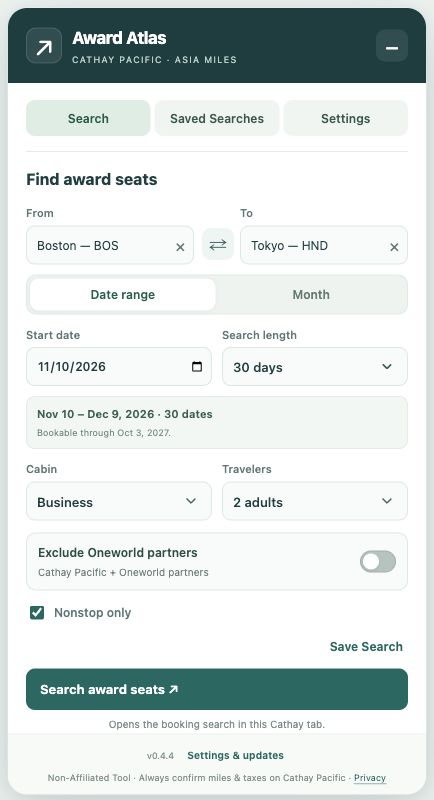
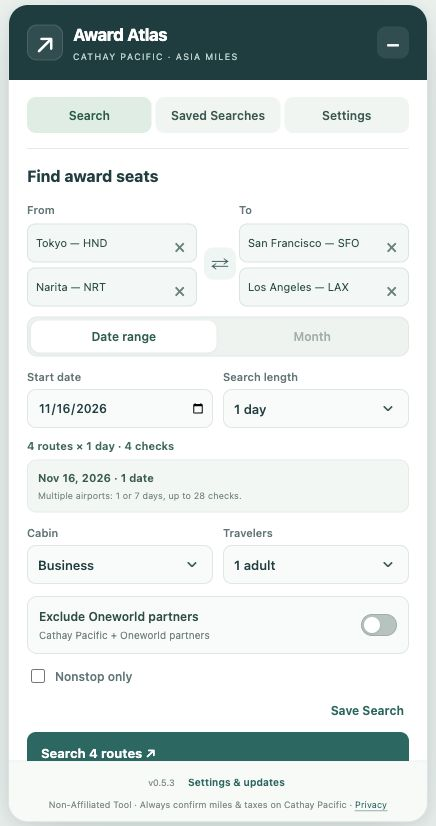
Publish Award Atlas v0.5.3 downloads and multi-airport search guide

diff --git a/index.html b/index.html
@@ -3,7 +3,7 @@
 <head>
   <meta charset="utf-8">
   <meta name="viewport" content="width=device-width, initial-scale=1">
-  <meta name="description" content="A free Chrome extension for searching Cathay Pacific award seats. Explore 7, 14, or 30 days, or a calendar month, in a small panel on Cathay’s website.">
+  <meta name="description" content="A free Chrome extension for searching Cathay Pacific award seats. Explore 1, 7, 14, or 30 days, or a calendar month, in a small panel on Cathay’s website.">
   <meta name="theme-color" content="#123e40">
   <title>Award Atlas — Find your next award flight</title>
   <link rel="icon" href="assets/mark.svg" type="image/svg+xml">
@@ -24,7 +24,7 @@
       <div class="hero-copy">
         <p class="eyebrow"><span class="rule"></span> YOUR NEXT TRIP STARTS WITH A DATE</p>
         <h1 id="hero-title">Your points.<br>More possibilities.</h1>
-        <p class="intro">Find Cathay Pacific and Oneworld partner award flights across a range of dates, all from a small panel on Cathay’s website.</p>
+        <p class="intro">Find Cathay Pacific and Oneworld partner award flights across dates and nearby airports, all from a small panel on Cathay’s website.</p>
         <div class="hero-actions">
           <a class="button" href="https://github.com/somomentous/award-atlas/releases/latest/download/Award-Atlas.zip">
             <svg aria-hidden="true" width="20" height="20" viewBox="0 0 24 24" fill="none" stroke="currentColor" stroke-width="1.8" stroke-linecap="round" stroke-linejoin="round"><path d="M12 3v12m-5-5 5 5 5-5M4 16v5h16v-5"/></svg>
@@ -32,24 +32,24 @@
           </a>
           <a class="text-link" href="#install">Installation guide</a>
         </div>
-        <p class="download-meta">Free · v0.4.4 · Desktop Chrome on Mac &amp; Windows</p>
-        <p class="store-note">Includes airline icons, a Cathay-only filter, Saved Searches and offline airport lookup. Install manually from GitHub Releases.</p>
+        <p class="download-meta">Free · v0.5.3 · Desktop Chrome on Mac &amp; Windows</p>
+        <p class="store-note">Compare up to two departure and two arrival airports, with airline icons, a Cathay-only filter and Saved Searches. Install manually from GitHub Releases.</p>
         <dl class="quick-facts">
-          <div><dt>7 / 14 / 30</dt><dd>day search ranges</dd></div>
-          <div><dt>A whole month</dt><dd>for flexible travel plans</dd></div>
+          <div><dt>1 / 7 / 14 / 30</dt><dd>days, or a whole month</dd></div>
+          <div><dt>2 × 2 airports</dt><dd>compare up to four routes</dd></div>
           <div><dt>Your browser</dt><dd>your Cathay session</dd></div>
         </dl>
       </div>
       <figure class="product-preview">
-        <div class="preview-topline"><span>THE LITTLE PANEL WITH BIG PLANS</span><span>v0.4.4</span></div>
-        <img class="panel-image" src="assets/panel.png?v=0.4.4" width="434" height="800" alt="Award Atlas’s compact search panel with aligned From and To fields, date ranges, cabin choices, and the Exclude Oneworld partners toggle.">
+        <div class="preview-topline"><span>THE LITTLE PANEL WITH BIG PLANS</span><span>v0.5.3</span></div>
+        <img class="panel-image" src="assets/panel.png?v=0.5.3" width="436" height="826" alt="Award Atlas’s compact search panel with two departure and two arrival airports, a one-day search, cabin choices, and the Exclude Oneworld partners toggle.">
         <figcaption>Extension panel in a local preview. Search directly on your Cathay tab.</figcaption>
       </figure>
     </section>
 
     <section class="benefits wrap" aria-label="Features">
-      <article><span class="feature-number">01</span><h2>A little more flexibility.</h2><p>Search 7, 14, or 30 days, or choose a month in the current or following year. Dates stay within the supported booking window.</p></article>
-      <article><span class="feature-number">02</span><h2>Stay on Cathay.</h2><p>Find airports by city, country, name or code. Save your route and filters under a name, then reopen, edit or rerun them later.</p></article>
+      <article><span class="feature-number">01</span><h2>A little more flexibility.</h2><p>Search a single route for 1, 7, 14 or 30 days, or a calendar month. Compare up to two airports on each side over 1 or 7 days, with at most 28 route/date checks.</p></article>
+      <article><span class="feature-number">02</span><h2>Stay on Cathay.</h2><p>See one-day route comparisons or a calendar: green for CX options, blue for Oneworld or mixed itineraries. Save your airports, dates and filters to rerun later.</p></article>
       <article><span class="feature-number">03</span><h2>Keep it in your browser.</h2><p>Search requests go directly to Cathay. Saved searches and results stay locally in your browser, with no extension analytics or search backend. GitHub supplies public update metadata.</p></article>
     </section>
 
@@ -72,9 +72,9 @@
     <section class="wrap essentials" aria-labelledby="essentials-title">
       <div><p class="eyebrow">GOOD TO KNOW</p><h2 id="essentials-title">Before your first search.</h2></div>
       <div class="faq">
-        <details><summary>Can I include Oneworld partner flights?</summary><p>Partner itineraries returned by Cathay are included by default, with airline icons and names on each result. Turn on <strong>Exclude Oneworld partners</strong> for Cathay-only results. Availability depends on what Cathay returns for your route and dates; not every partner or itinerary is offered.</p></details>
+        <details><summary>Can I include Oneworld partner flights?</summary><p>Partner itineraries returned by Cathay are included by default, with airline icons and names on each result. Turn on <strong>Exclude Oneworld Partners</strong> for Cathay-only results. Availability depends on what Cathay returns for your route and dates; not every partner or itinerary is offered.</p></details>
         <details open><summary>How do I update the ZIP version?</summary><p>ZIP installations update manually. Download the newest ZIP from this page, extract it, and replace the files in the folder Chrome originally loaded. Finish or stop any search, then click <strong>Reload inside the Award Atlas card</strong> at <code>chrome://extensions</code>. Refresh your Cathay tab. Reloading alone does not download new files. Keep the same installed folder and extension identity to preserve saved searches, preferences and results from v0.4.0 onward. Earlier v0.3.x session results cannot survive the first reload. Settings alerts you when GitHub has an update; Update Now opens its release page.</p></details>
-        <details><summary>What if a search pauses or finds no seats?</summary><p>Keep the Cathay booking tab open and complete any sign-in or verification prompts on Cathay. Follow the panel’s waiting instructions, then choose <strong>Continue remaining dates</strong> when available. Checked dates are kept; unchecked dates remain unknown. Cathay’s website changes or request limits can interrupt searches.</p></details>
+        <details><summary>What if a search pauses or finds no seats?</summary><p>Keep the Cathay booking tab open and complete any sign-in or verification prompts on Cathay. Follow the panel’s waiting instructions and continue when available. Confirmed no-flight responses count as checked with no matches. Individual data errors can be skipped and retried when offered; skipped or unchecked routes stay unknown. Checked results are kept. Cathay’s website changes or request limits can interrupt searches.</p></details>
         <details><summary>Does this book flights or access my password?</summary><p>No. Sign in directly on Cathay; Award Atlas does not ask for or read your password and has no permission to read Chrome’s cookie store. It uses your existing Cathay session to search. Confirm availability, miles, taxes, and any booking directly with Cathay.</p></details>
         <details><summary>Where can I get help?</summary><p>Open a <a href="https://github.com/somomentous/award-atlas/issues">GitHub issue</a> with the extension version and error message. Please leave out passwords, cookies, session identifiers, and member or payment details.</p></details>
       </div>

diff --git a/CHANGELOG.md b/CHANGELOG.md
@@ -1,5 +1,93 @@
 # Changelog
 
+## 0.5.3 — 2026-10-08
+
+- Add consistent space above and below the partial-results notice so it clears route cards, the calendar and the legend.
+
+## 0.5.2 — 2026-10-08
+
+- Update the partial-results message to “Unfinished routes remain unknown or no flights available.”
+
+## 0.5.1 — 2026-10-08
+
+- Recognize Cathay’s ERR_DDS_9100 no-flight redirect back to its redemption form as a completed empty result, without a red error or Skip step.
+- Continue to the next route/date automatically even when the empty search never created a booking session.
+- Match the redirect to the requested airports, date, cabin and travelers, and require a fresh navigation and visible no-flight alert before recording No matches.
+
+## 0.5.0 — 2026-10-08
+
+- Select up to two departure and two arrival airports using removable airport chips.
+- Multiple airports support 1 or 7 days, for a maximum of 28 route/date checks. Single routes retain 1/7/14/30 days and Month.
+- Show route comparison cards for a single day, or a calendar summarizing all routes for seven days. Group flight results by route and keep Cathay links tied to the correct airports.
+- Track each route/date separately through sequential requests, fresh booking navigation on route changes, stop/continue, Skip/Retry, saved searches and restored results.
+- Mark partial date results explicitly; unfinished or failed routes never imply zero availability.
+
+## 0.4.10 — 2026-10-08
+
+- Add a 1 day choice to Search length alongside 7, 14 and 30 days.
+- Preserve single-date selections in preferences, saved searches and restored results, with singular day/date labels.
+- A single-date search checks only the chosen date and can use the final bookable date.
+
+## 0.4.9 — 2026-10-08
+
+- Keep calendar days green with one diamond when at least one matching itinerary uses only Cathay Pacific flight legs.
+- Show days with only Oneworld partner or mixed itineraries in light blue with two diamonds; keep the displayed count as the total matching options.
+- Apply the classification after cabin, traveler, nonstop and partner filters, including all-Cathay connections.
+- Left-align the naturally wrapping legend in this order: CX Seats Found, Oneworld/Mixed Seats Found, No Matches, Not Checked, Skipped. Retain light red question marks for unknown skipped/error dates.
+
+## 0.4.8 — 2026-10-08
+
+- Recognize Cathay's message type metadata in its no-flight response (9100), allowing the search to continue to later dates.
+- Retain strict handling of conflicting errors, unfamiliar message records and contradictory flight lists.
+- Include Skip, Retry skipped dates, and the light red unknown-date calendar introduced in the local 0.4.6 candidate.
+
+## 0.4.7 (local diagnostic candidate) — 2026-10-08
+
+- Versioned the parser diagnostic build separately to confirm Chrome has loaded the updated error handling.
+
+## 0.4.6 (local candidate) — 2026-10-08
+
+- Add **Skip this date and continue** for individual flight-data parsing errors, keeping completed results and skipped dates separate.
+- Add **Retry skipped dates** after the remaining dates finish, preserving progress across extension reloads.
+- Show skipped/error dates in light red with a question mark and unknown-availability labels; never count them as zero-seat or verified dates.
+- Keep session, rate-limit and unrecognized server errors paused rather than skipping them.
+- Improve bounded 9100 diagnostics without exposing free-form messages or session values.
+
+## 0.4.5 (local candidate) — 2026-10-08
+
+- Recognize Cathay's observed no-flight response (code 9100) and continue checking the remaining dates.
+- Require that no other errors or contradictory flight results accompany that response; unknown failures remain unchecked.
+- Show bounded Cathay error codes for troubleshooting without including free-form server messages, account data, or booking tokens.
+
+## 0.4.4 — 2026-10-08
+
+- Support the Heathrow/Gatwick airport changes displayed in Cathay's British Airways itineraries, with an explicit airport-change warning.
+- Continue checking every flight leg's inventory; unavailable transfers do not become available seats.
+- Include the flight numbers and airport gap in unsupported-connection errors for easier diagnosis.
+
+## 0.4.3 — 2026-10-08
+
+- Handle Cathay's observed partner `N` inventory status as unavailable, so those flights no longer stop the date search.
+- Remove the duplicate airport names below selected From/To inputs to keep the form aligned. Airport details remain in suggestions and the field tooltip.
+- Check inventory in the selected cabin, so an unfamiliar status in another cabin cannot stop a valid search. Unrequested cabins remain unverified rather than being assigned zero seats.
+- Keep unfamiliar statuses in the requested cabin as errors and identify the affected flight, cabin and bounded status code for troubleshooting.
+
+## 0.4.2 — 2026-10-08
+
+- Replace wordmarks with the supplied circular SVG airline icons at a consistent 28×28 px size.
+- Include the supplied Hawaiian Airlines icon; use the circular Oneworld fallback for airlines without a matching icon.
+- Show distinct airline logos alongside names, including both airlines on mixed itineraries.
+- Use the supplied generic Oneworld logo when there is no matching image or an image fails to load; retain text if the fallback fails too.
+- Load logos locally with access limited to the existing Cathay hosts, without external image requests.
+
+## 0.4.1 — 2026-10-08
+
+- Show Cathay Pacific and Oneworld partner itineraries returned by Cathay by default.
+- Add an Exclude Oneworld partners toggle for instant Cathay-only filtering, saved with searches and restored results.
+- Label airlines on mixed itineraries and warn about supported NRT/HND airport transfers.
+- Keep per-leg cabin and passenger checks; mileage prices alone never establish award availability.
+- Older restored searches explain that a fresh search is needed to collect partner results.
+
 ## 0.4.0 — 2026-10-08
 
 - GitHub Releases distribution with versioned production ZIPs and an Actions build workflow.

diff --git a/README.md b/README.md
@@ -8,9 +8,9 @@ A free Chrome extension for searching Cathay Pacific award seats in a compact pa
 
 Download the release ZIP asset, not GitHub’s Source code archive. Extract it (double-click on Mac; Extract All on Windows), keep the `award-atlas-extension` folder in a permanent location, then open `chrome://extensions` in desktop Chrome 120+. Enable Developer mode, click Load unpacked, and select the folder containing `manifest.json`. Pin Award Atlas, sign in directly on Cathay, refresh that tab, and click the extension icon.
 
-Choose airports with city/country/name/IATA suggestions, then cabin, adults, and 7/14/30 days or a month. Keep the Cathay tab open. Save Search stores named configurations for later use; Saved Searches lets you run, rename, edit or delete them.
+Choose airports with city/country/name/IATA suggestions, then cabin, adults, and 1/7/14/30 days or a month for a single route. Select up to two airports per field to compare routes over 1 or 7 days (at most 28 route/date checks). Keep the Cathay tab open. Save Search stores named configurations for later use; Saved Searches lets you run, rename, edit or delete them.
 
-Version 0.4.4 includes Oneworld partner itineraries returned by Cathay by default. Turn on **Exclude Oneworld partners** for Cathay-only results. Circular airline icons, including Hawaiian, identify each distinct carrier on mixed itineraries, with a generic Oneworld fallback where needed.
+Version 0.5.3 includes Oneworld partner itineraries returned by Cathay by default. Turn on **Exclude Oneworld Partners** for Cathay-only results. Circular airline icons, including Hawaiian, identify each distinct carrier on mixed itineraries, with a generic Oneworld fallback where needed.
 
 ## Update
 
@@ -28,6 +28,13 @@ Cathay website changes, session expiry and limits can interrupt searches. Unchec
 
 Not affiliated with Cathay Pacific or Asia Miles. [MIT License](LICENSE). This repository hosts the public website, JSON version policy and release assets.
 
-Version 0.4.4 also fixes the unfamiliar-seat-status error for unavailable partner flights and removes wrapping airport captions beneath From/To.
+## New in v0.5.3
 
-Version 0.4.4 supports the Heathrow/Gatwick airport changes displayed in Cathay's British Airways itineraries. Results flag the airport change and still require enough award seats on every leg.
+- Search one date, or compare up to four routes using two airports per field.
+- One-day route cards and a combined seven-day calendar keep results grouped by route.
+- Green with one diamond means a matching all-CX itinerary is available; blue with two diamonds means only Oneworld or mixed options were found.
+- Confirmed Cathay 9100 no-flight responses are normal empty results, including redirects to the redemption form.
+- Skip eligible date errors and retry them later. Skipped dates are light red; unfinished checks remain unknown.
+- Improved partial-results notices and spacing.
+
+Earlier fixes for unavailable partner seat statuses and supported Heathrow/Gatwick airport changes are included. Always review connection and airport-change details with Cathay.
